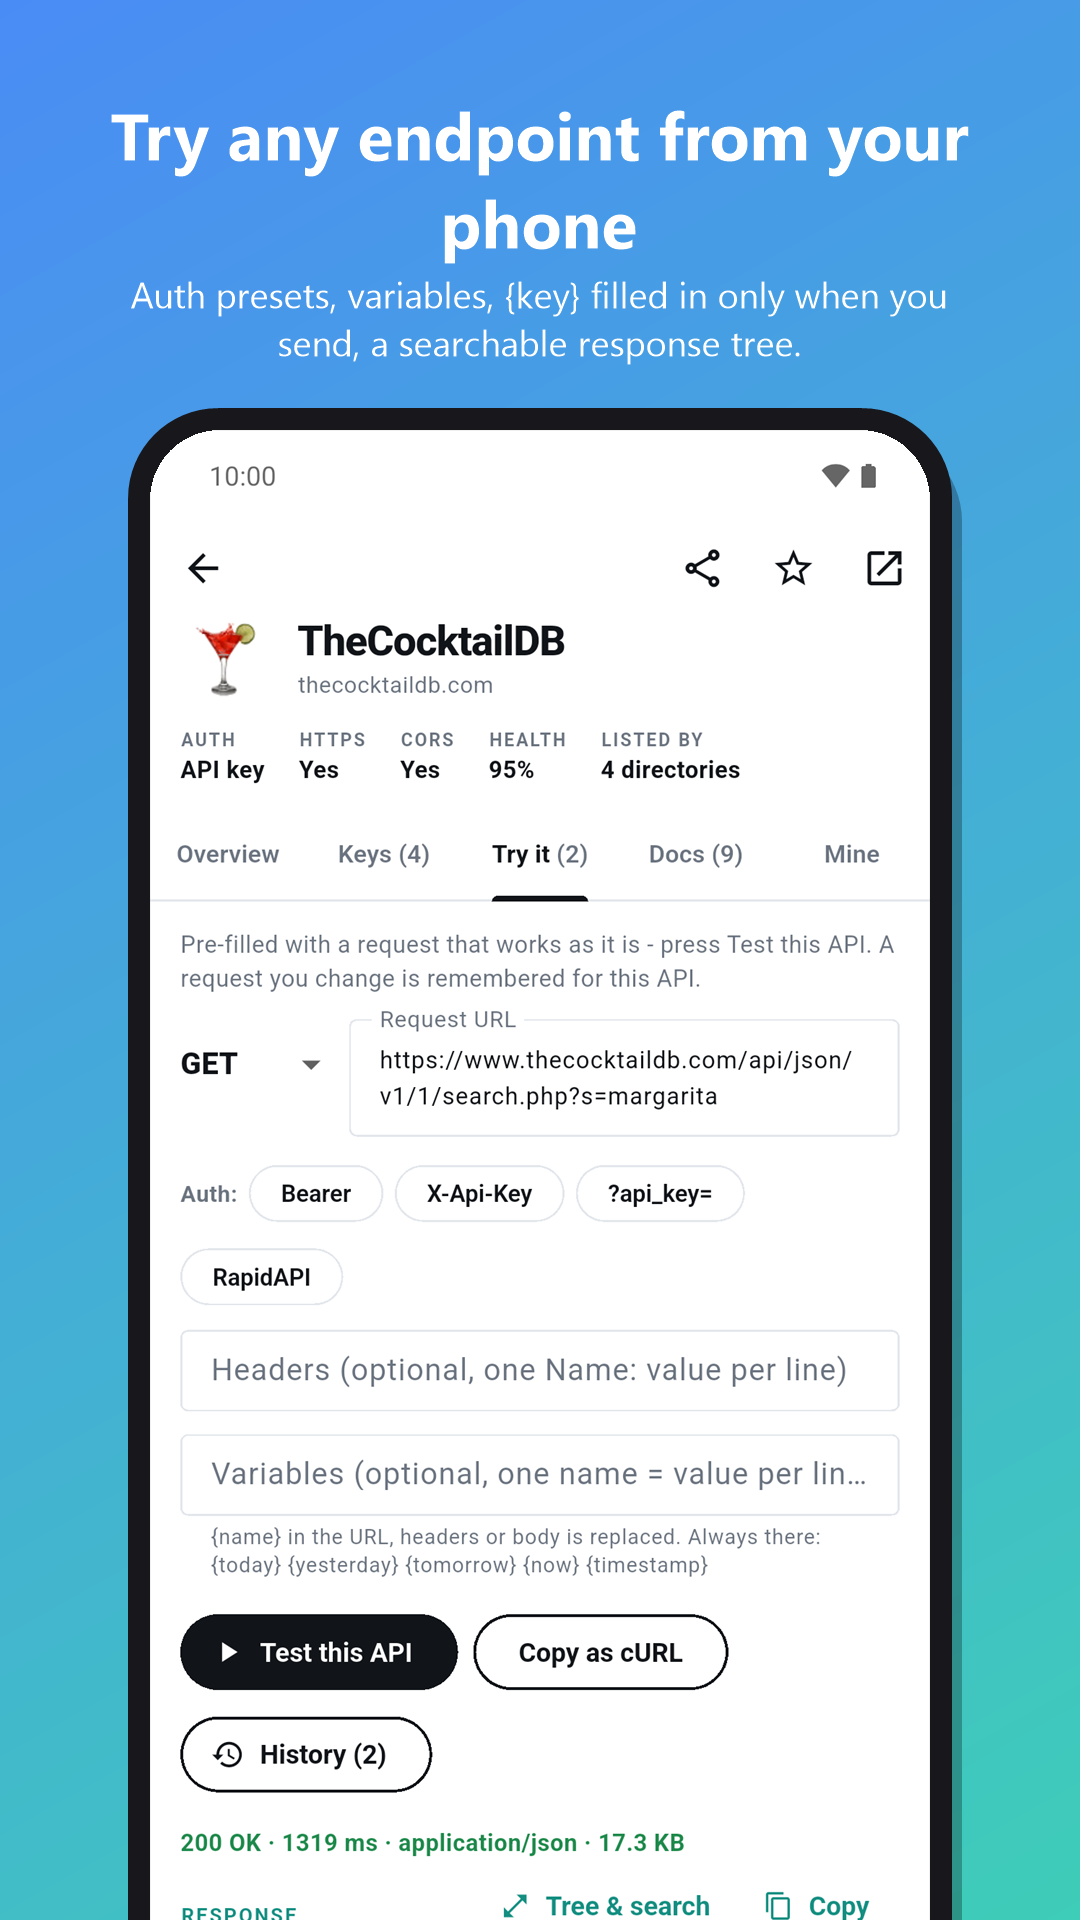
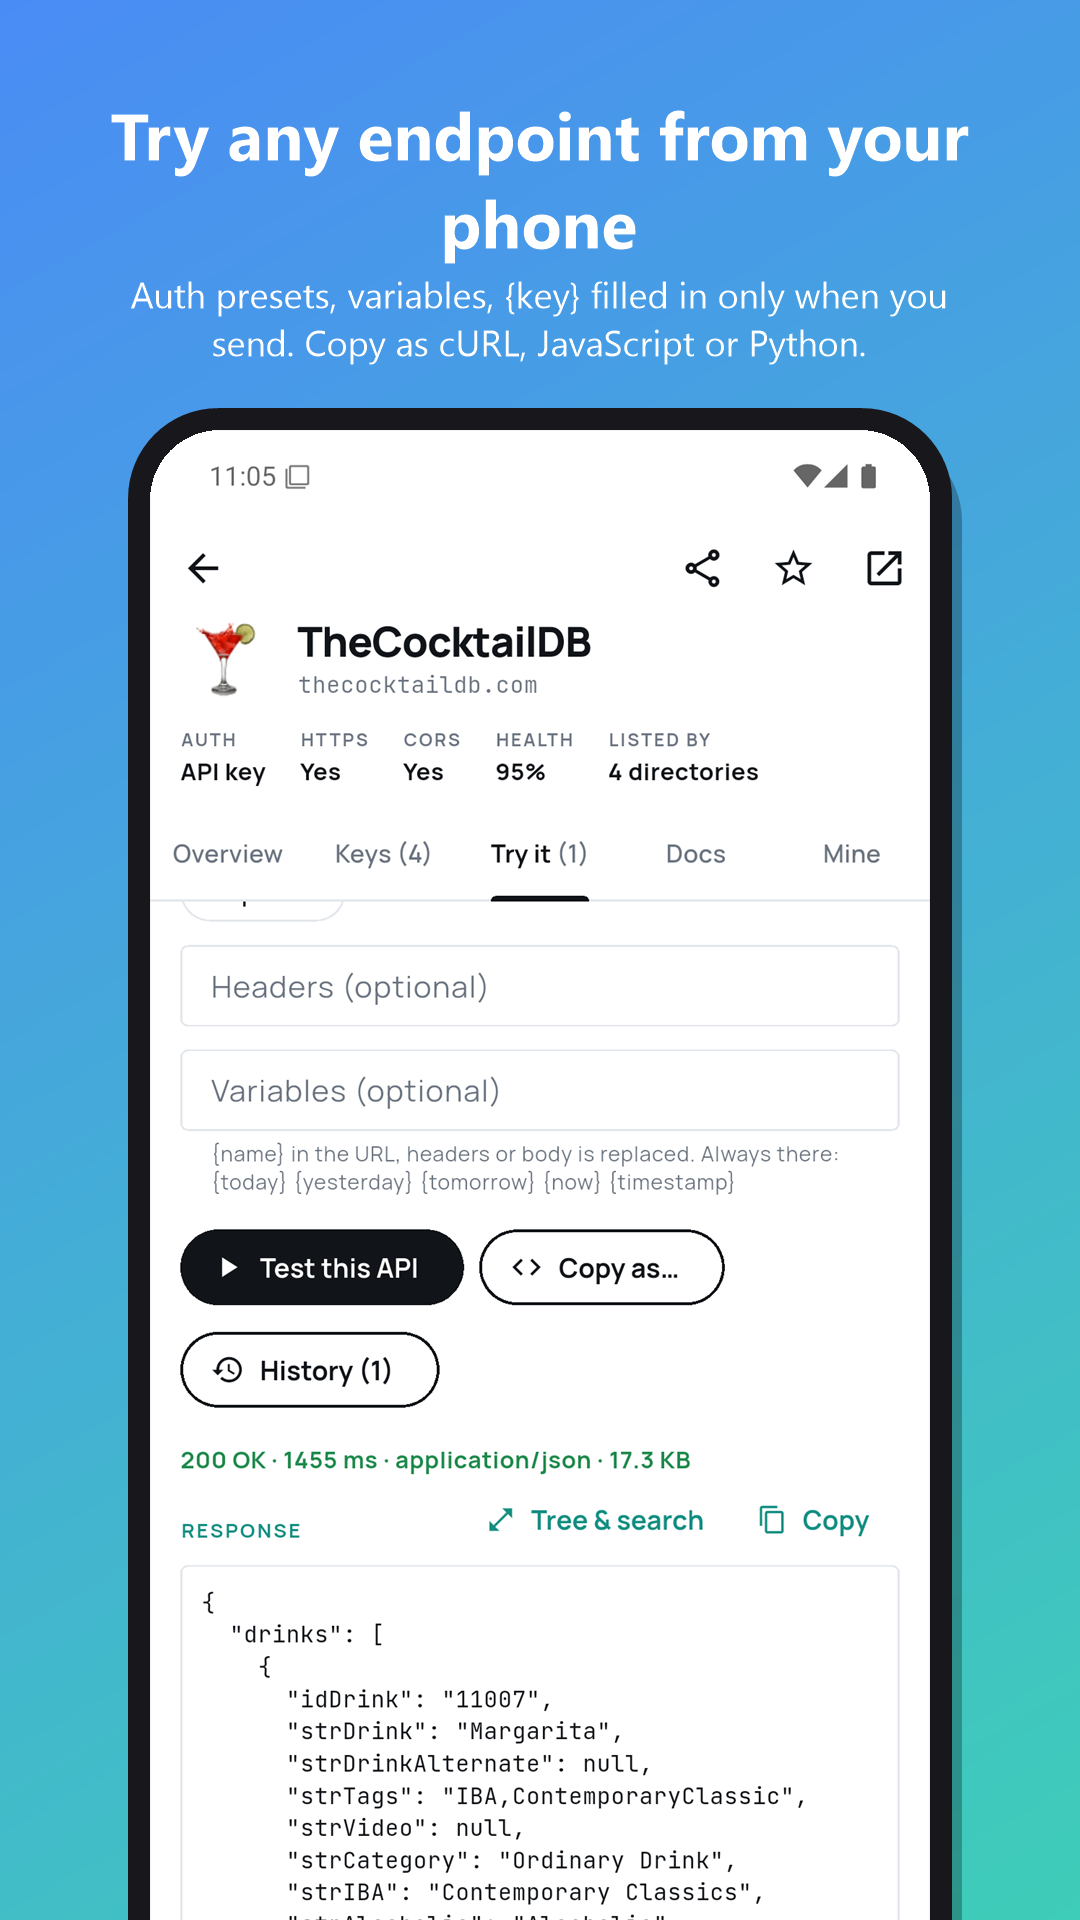
Play screenshots retaken on 1.5.5: real typefaces, Works right now and Sort chips, Copy as... in Try it; captions updated (3,600+ APIs)

diff --git a/store/listing.md b/store/listing.md
@@ -98,6 +98,6 @@ The policy lives at `PRIVACY.md` in the root of the combined GitHub repository; 
 3. **Application id.** The bundle uses `com.kramn.apiscout_mobile`. It cannot be changed after the first upload.
 4. **Third-party logos.** The screenshots show provider logos (NASA, GitHub, TheCocktailDB) that the app loads from the
    providers' own sites. This is normal for a directory app, but you can pick screenshots without them if you prefer.
-5. The "3,592" in the first caption is today's count. Update it, or make it "3,500+", if the catalogue grows before release.
+5. The first caption says "3,600+" (3,677 on 2026-10-15, after duplicate folding). Update it if the catalogue changes a lot.
 6. **Phones with the old sideloaded build.** Those were debug-signed; a release-signed build will not install over them.
    Export data in the app first, uninstall, install, import.
